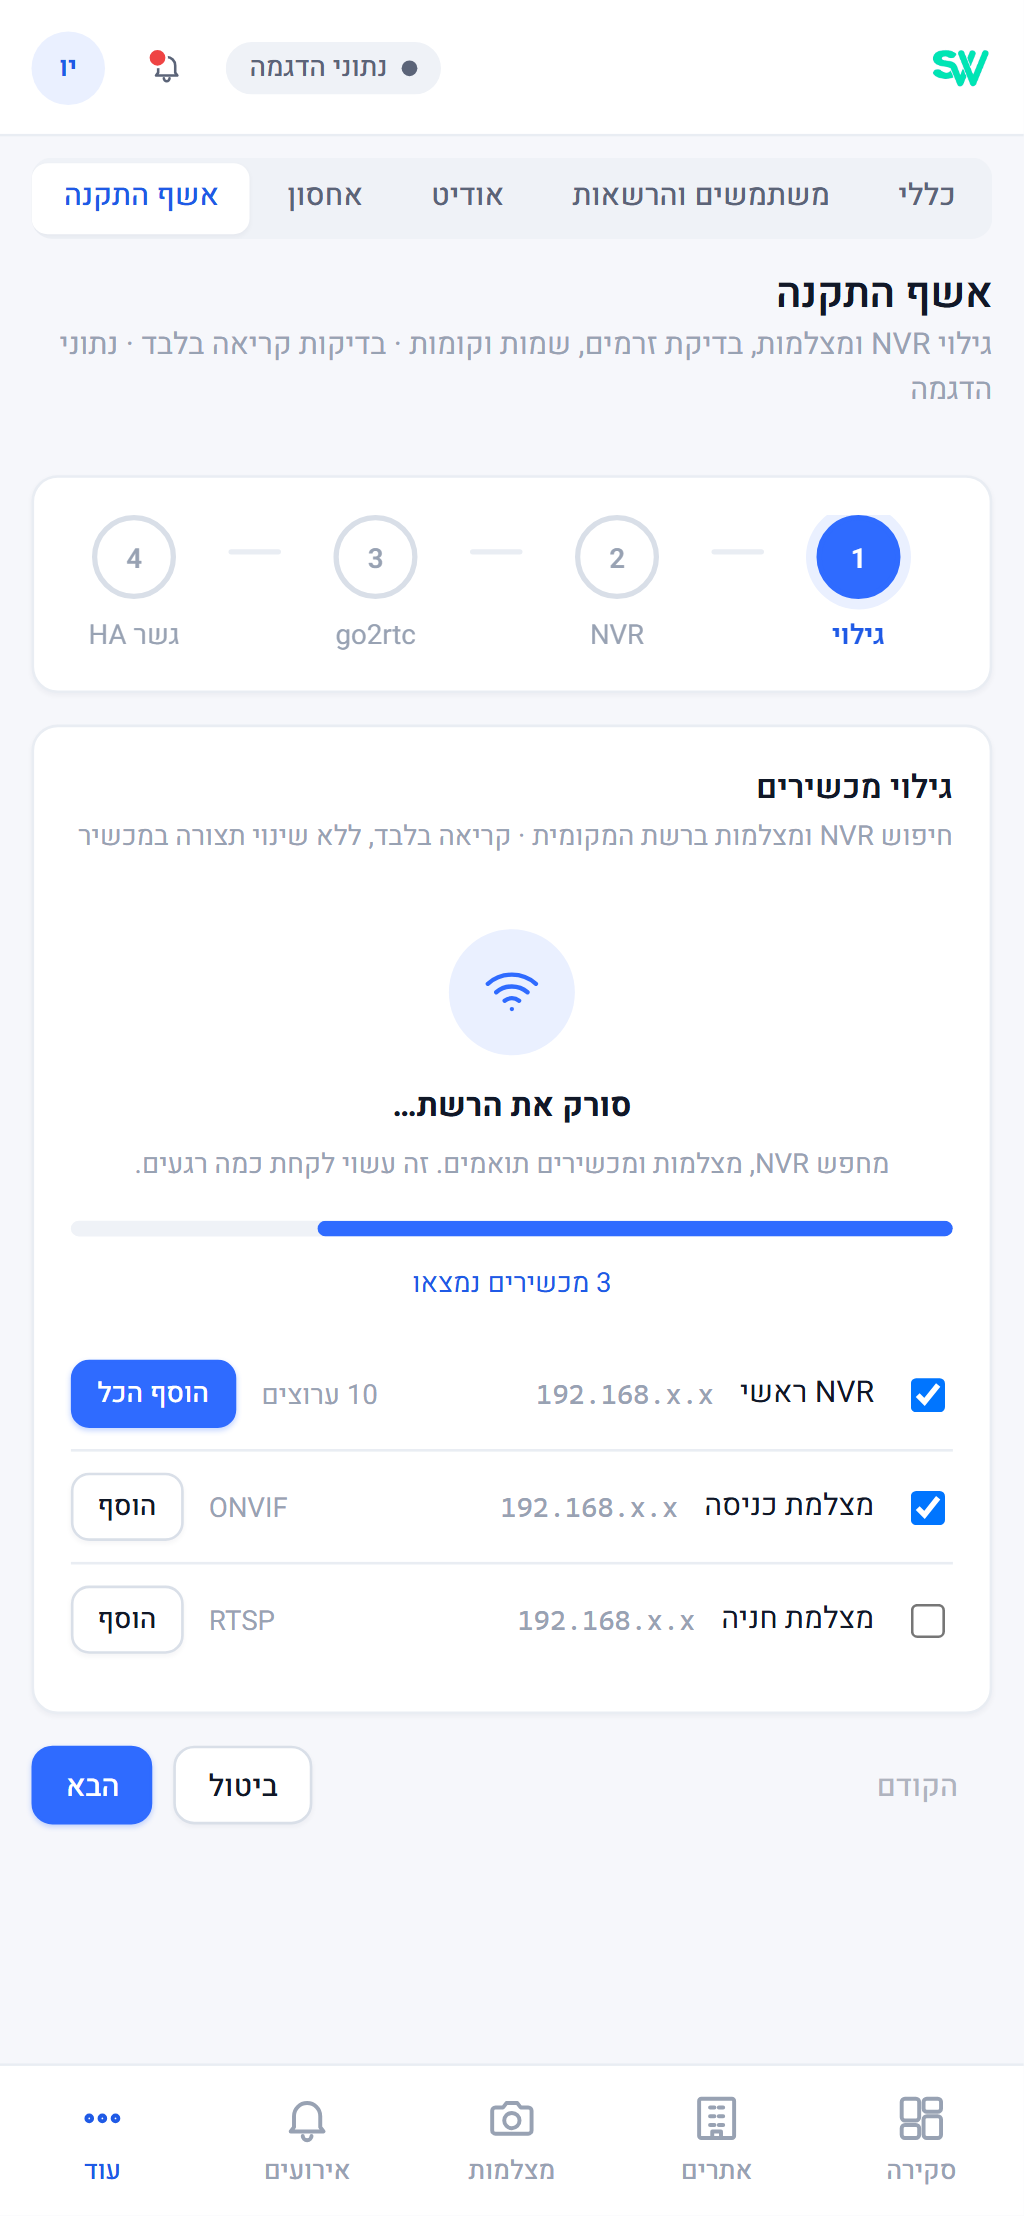
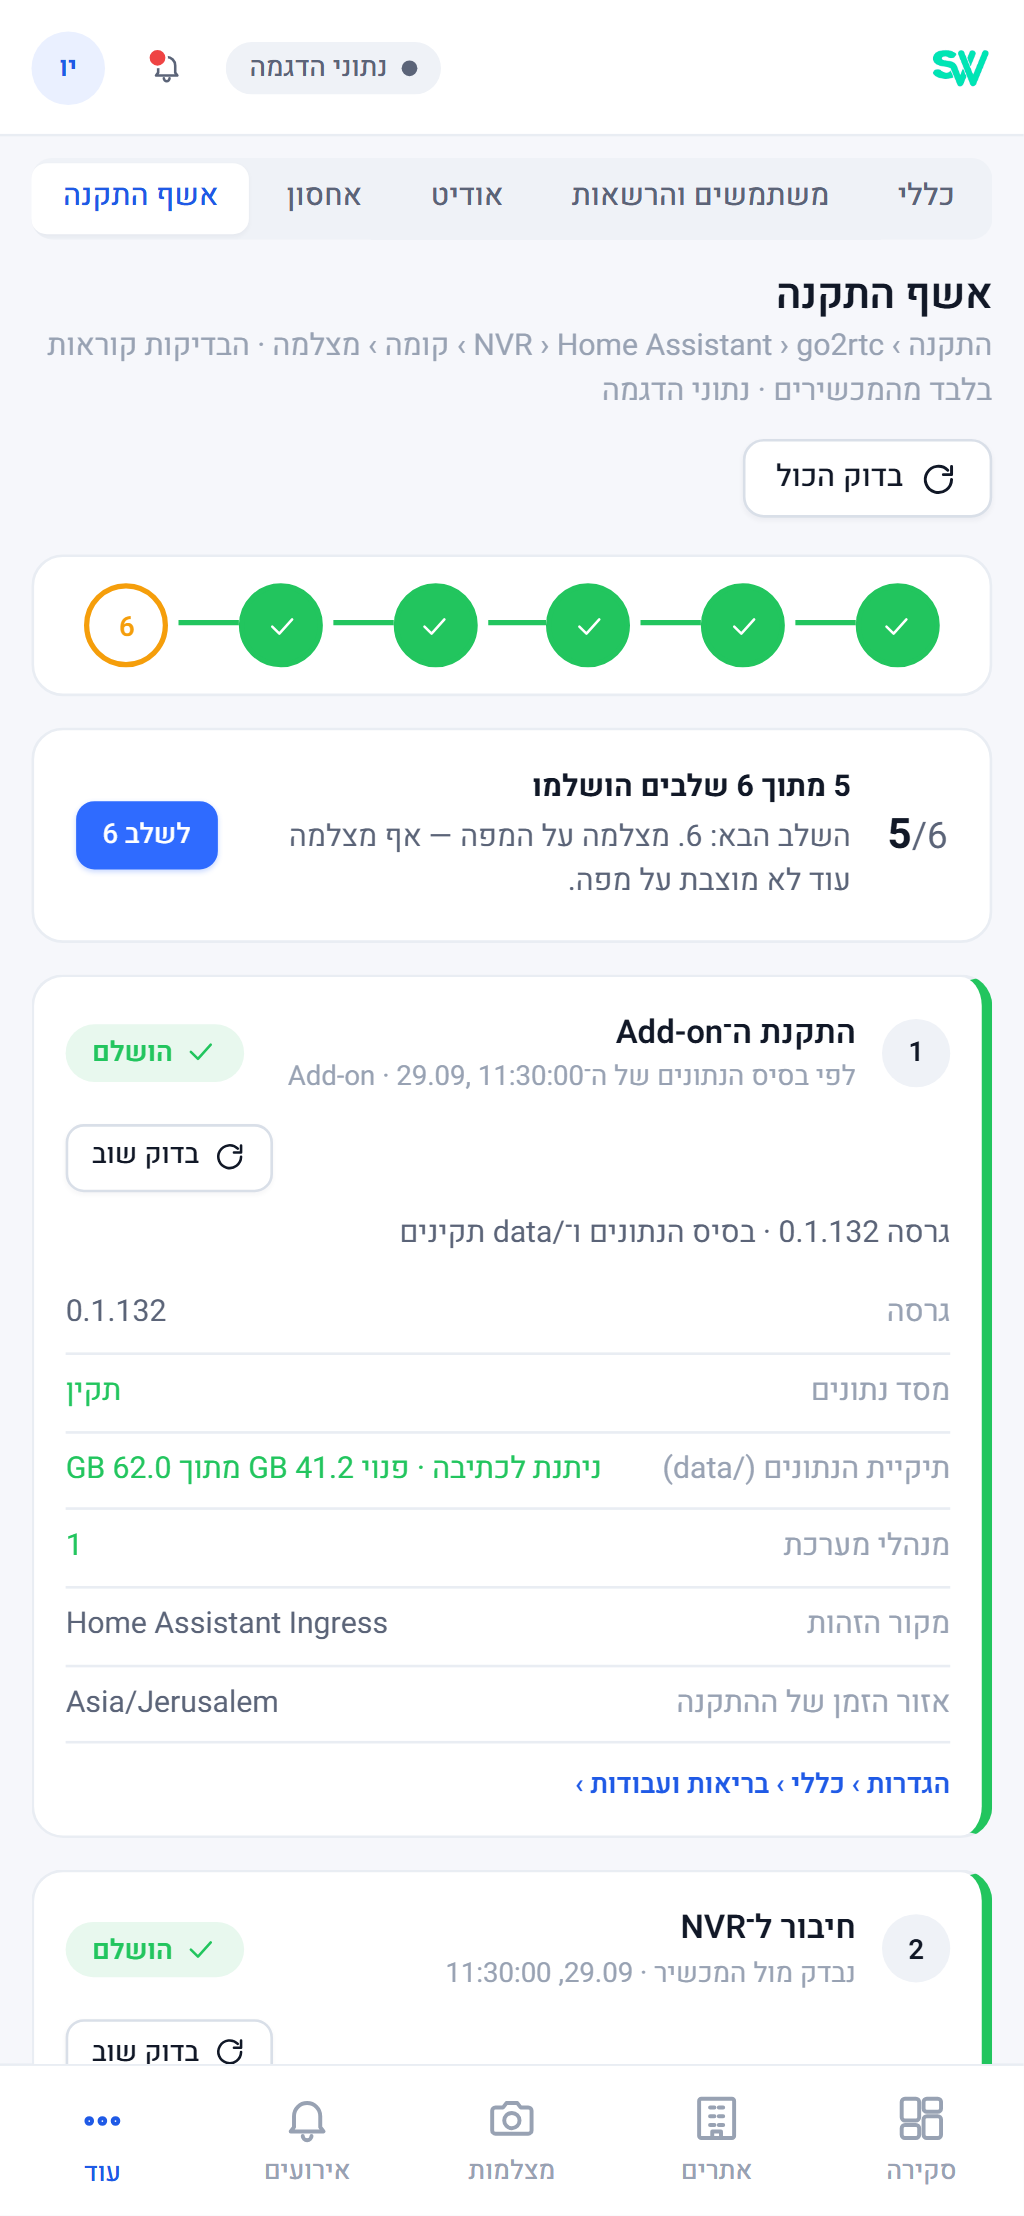
test(T071): wizard evidence spec on a fake-device fixture backend; demo-mode check; screens
frontend/tests/fixtures/setup_fake_devices.py runs the real backend with the fake NVR and go2rtc from the backend's
tests/fixtures/fake_devices.py (.test hosts, httpx transport hook, a control API that takes the NVR down).
tests/evidence-setup-wizard.spec.ts, desktop + mobile: NVR down -> the NVR step fails with the explanation, next
action and link; up -> "בדוק שוב" passes with model, channels and profiles; the per-step limit message; the shell
hint shown and dismissed for the session; no device write by any check. Demo part: the camera step and the
"מוכן לעבודה" summary. The fake NVR answers the recording search (a read by POST) instead of logging it as a
write. Screenshots in docs/evidence/T071; screens.spec captures the wizard and the connections page.

diff --git a/frontend/tests/evidence-setup-wizard.spec.ts b/frontend/tests/evidence-setup-wizard.spec.ts
@@ -1,0 +1,154 @@
+import { test, expect, request as pwRequest, type APIRequestContext, type Page } from '@playwright/test';
+import path from 'node:path';
+import { fileURLToPath } from 'node:url';
+
+// Evidence for the setup wizard (T071, AT141): הגדרות › אשף התקנה (#/system/wizard) driven by GET /setup/state and
+// POST /setup/check/{step}.
+//
+// Live part (SW_LIVE=1 SW_SETUP_FIXTURE=1): against the throwaway fixture backend tests/fixtures/setup_fake_devices.py
+// (fake NVR and go2rtc on `.test` hosts, the add-on's real device code; how to start it is at the top of that file).
+// The NVR fake goes down → opening the wizard checks the NVR step live, it fails with the explanation, the next action
+// and the link to הגדרות › חיבורים; "בדוק שוב" right away is refused by the per-step rate limit (the message is shown);
+// the NVR comes back up → "בדוק שוב" passes with the device's evidence. Then the shell's "השלם את ההתקנה" hint: shown
+// to the system administrator elsewhere while steps remain, and dismissed for the browser session. desktop + mobile.
+//
+// Demo part (no backend behind the preview): the fixture state - the camera step waits for a placement with its
+// explanation; "בדוק שוב" on it completes the six steps and the "מוכן לעבודה" summary appears.
+const HERE = path.dirname(fileURLToPath(import.meta.url));
+const OUT = path.resolve(HERE, '..', '..', 'docs', 'evidence', 'T071');
+const WIZARD = '#/system/wizard';
+const CONTROL = process.env.SW_SETUP_CONTROL || 'http://127.0.0.1:8359';
+
+const step = (page: Page, id: string) => page.locator(`system-wizard [data-step="${id}"]`);
+
+async function openWizard(page: Page) {
+  await page.goto(`/?design=a${WIZARD}`);
+  await page.waitForSelector('sw-app');
+  await expect(page.locator('system-wizard [data-wizard]')).toBeVisible({ timeout: 30000 });
+}
+
+async function noHorizontalOverflow(page: Page) {
+  const overflow = await page.evaluate(() => document.documentElement.scrollWidth - document.documentElement.clientWidth);
+  expect(overflow, 'page must not scroll horizontally').toBeLessThanOrEqual(0);
+}
+
+test.describe('setup wizard against the fixture backend (fake NVR / go2rtc)', () => {
+  test.skip(process.env.SW_LIVE !== '1' || process.env.SW_SETUP_FIXTURE !== '1', 'set SW_LIVE=1 SW_SETUP_FIXTURE=1 against tests/fixtures/setup_fake_devices.py');
+  test.describe.configure({ mode: 'serial' });
+
+  let control: APIRequestContext;
+
+  test.beforeAll(async () => {
+    control = await pwRequest.newContext({ baseURL: CONTROL });
+  });
+
+  test.beforeEach(async () => {
+    expect((await control.post('/reset')).status()).toBe(200);
+  });
+
+  test.afterAll(async () => {
+    await control?.post('/reset');
+    await control?.dispose();
+  });
+
+  test('NVR down: the step fails with the explanation; up again: "בדוק שוב" passes', async ({ page, request }, testInfo) => {
+    expect((await control.post('/nvr', { data: { up: false } })).status()).toBe(200);
+    await openWizard(page);
+    // the six steps in the acceptance order, with the rail
+    await expect(page.locator('system-wizard [data-step]')).toHaveCount(6);
+    expect(await page.locator('system-wizard [data-step]').evaluateAll((els) => els.map((e) => e.getAttribute('data-step')))).toEqual(['install', 'nvr', 'ha', 'go2rtc', 'floor', 'camera']);
+    await expect(page.locator('system-wizard [data-rail-step]')).toHaveCount(6);
+
+    // opening the wizard checks the NVR live (it was known only from the start-up discovery): down → failed
+    const nvr = step(page, 'nvr');
+    await expect(nvr).toHaveAttribute('data-status', 'failed', { timeout: 30000 });
+    await expect(nvr).toHaveAttribute('data-source', 'live');
+    const problem = nvr.locator('[data-step-problem]');
+    await expect(problem).toHaveAttribute('data-step-problem', 'source_unavailable');
+    await expect(problem).toContainText('ה־NVR לא ענה');
+    await expect(problem.locator('[data-step-action]')).toContainText('ודאו שה־NVR דולק ומחובר לרשת');
+    await expect(problem.locator('[data-step-link]')).toHaveAttribute('href', '#/system/setup');
+    await expect(page.locator('system-wizard [data-rail-step="nvr"]')).toHaveAttribute('data-status', 'failed');
+    await expect(page.locator('system-wizard [data-wizard-progress]')).toContainText('נכשלו');
+    await noHorizontalOverflow(page);
+    await page.screenshot({ path: path.join(OUT, `wizard-nvr-down-${testInfo.project.name}.png`), fullPage: true });
+
+    // the other steps explain themselves too: HA is not configured in this fixture, the floor has no building yet
+    await expect(step(page, 'ha')).toHaveAttribute('data-status', 'failed');
+    await expect(step(page, 'ha').locator('[data-step-problem]')).toHaveAttribute('data-step-problem', 'ha_not_configured');
+    await expect(step(page, 'floor')).toHaveAttribute('data-status', 'todo');
+    await expect(step(page, 'floor').locator('[data-step-link]')).toHaveAttribute('href', '#/explore/sites');
+    await expect(step(page, 'go2rtc')).toHaveAttribute('data-status', 'done', { timeout: 30000 });
+
+    // the NVR is back (and the per-step limit of the automatic check has run out): "בדוק שוב" passes
+    expect((await control.post('/nvr', { data: { up: true } })).status()).toBe(200);
+    await page.waitForTimeout(5200);
+    await nvr.locator('[data-check="nvr"]').click();
+    await expect(nvr).toHaveAttribute('data-status', 'done', { timeout: 30000 });
+    await expect(nvr.locator('[data-step-problem]')).toHaveCount(0);
+    await expect(nvr.locator('[data-step-note]')).toHaveCount(0);
+    // an immediate second check is refused by the per-step limit, the screen says so and keeps the result
+    await nvr.locator('[data-check="nvr"]').click();
+    await expect(nvr.locator('[data-step-note]')).toContainText('אפשר לבדוק שוב בעוד');
+    await expect(nvr).toHaveAttribute('data-status', 'done');
+    await expect(nvr.locator('[data-step-facts]')).toContainText('DS-7616NI-FAKE');
+    await expect(nvr.locator('[data-step-facts]')).toContainText('4 · 4 מקוונים');
+    await expect(nvr.locator('[data-step-facts]')).toContainText('H.265 2560x1440 25fps');
+    await expect(page.locator('system-wizard [data-rail-step="nvr"]')).toHaveAttribute('data-status', 'done');
+    await expect(page.locator('system-wizard [data-wizard-ready]')).toHaveCount(0);
+    await noHorizontalOverflow(page);
+    await page.screenshot({ path: path.join(OUT, `wizard-nvr-up-${testInfo.project.name}.png`), fullPage: true });
+
+    // the API agrees, and the checks never wrote to a device (only the start-up stream sync's own PUTs are listed)
+    const state = await (await request.get('/api/v1/setup/state')).json();
+    expect(state.steps.find((s: { id: string }) => s.id === 'nvr').status).toBe('done');
+    const writes = (await (await control.get('/writes')).json()) as string[];
+    expect(writes.every((w) => w.startsWith('go2rtc PUT smplwise_'))).toBe(true);
+  });
+
+  test('the shell hint "השלם את ההתקנה" shows while steps remain and is dismissed for the session', async ({ page }, testInfo) => {
+    await page.goto('/?design=a#/live');
+    await page.waitForSelector('sw-app');
+    const hint = page.locator('sw-app [data-setup-hint]');
+    await expect(hint).toBeVisible({ timeout: 30000 });
+    await expect(hint).toContainText('השלם את ההתקנה');
+    await expect(hint).toContainText('מתוך 6 שלבים הושלמו');
+    await noHorizontalOverflow(page);
+    await page.screenshot({ path: path.join(OUT, `shell-hint-${testInfo.project.name}.png`) });
+    await hint.locator('a').click();
+    await expect(page.locator('system-wizard [data-wizard]')).toBeVisible({ timeout: 30000 });
+    await expect(hint).toHaveCount(0); // not on the wizard itself
+    await page.goto('/?design=a#/live');
+    await expect(hint).toBeVisible({ timeout: 30000 });
+    await hint.locator('[data-setup-hint-dismiss]').click();
+    await expect(hint).toHaveCount(0);
+    await page.reload();
+    await page.waitForSelector('sw-app');
+    await page.waitForTimeout(1500);
+    await expect(hint).toHaveCount(0);
+  });
+});
+
+test.describe('setup wizard in demo mode (fixture data, no backend)', () => {
+  test.skip(process.env.SW_LIVE === '1', 'demo mode runs without a backend behind the preview');
+
+  test('the camera step explains itself; "בדוק שוב" completes the six steps and shows "מוכן לעבודה"', async ({ page }, testInfo) => {
+    await openWizard(page);
+    const cam = step(page, 'camera');
+    await expect(cam).toHaveAttribute('data-status', 'todo');
+    await expect(cam.locator('[data-step-problem]')).toContainText('אף מצלמה עוד לא מוצבת על מפה');
+    await expect(cam.locator('[data-step-link]')).toHaveAttribute('href', '#/explore/floors/f0/edit');
+    await expect(page.locator('system-wizard [data-wizard-progress]')).toContainText('5 מתוך 6');
+    await noHorizontalOverflow(page);
+    await page.screenshot({ path: path.join(OUT, `wizard-demo-${testInfo.project.name}.png`), fullPage: true });
+    await cam.locator('[data-check="camera"]').click();
+    await expect(cam).toHaveAttribute('data-status', 'done');
+    const ready = page.locator('system-wizard [data-wizard-ready]');
+    await expect(ready).toBeVisible();
+    await expect(ready).toContainText('מוכן לעבודה');
+    await expect(page.locator('system-wizard [data-rail-step][data-status="done"]')).toHaveCount(6);
+    await expect(page.locator('sw-app [data-setup-hint]')).toHaveCount(0); // the hint is for a real installation only
+    await noHorizontalOverflow(page);
+    await page.screenshot({ path: path.join(OUT, `wizard-demo-ready-${testInfo.project.name}.png`), fullPage: true });
+  });
+});

diff --git a/frontend/tests/screens.spec.ts b/frontend/tests/screens.spec.ts
@@ -32,7 +32,8 @@ const SCREENS: { sc: string; route: string; full?: boolean }[] = [
   { sc: 'sc22-rule-editor', route: '/investigate/rules/r-1', full: true },
   { sc: 'sc24-access', route: '/system/access' },
   { sc: 'sc25-audit', route: '/system/audit' },
-  { sc: 'sc26-setup', route: '/system/setup' },
+  { sc: 'sc26-setup', route: '/system/wizard' },
+  { sc: 'sc26-connections', route: '/system/setup' },
   { sc: 'sc27-devices', route: '/system/devices' },
   { sc: 'sc28-diagnostics', route: '/system/diagnostics', full: true },
   { sc: 'sc20-storage', route: '/system/storage', full: true },

diff --git a/frontend/tests/fixtures/setup_fake_devices.py b/frontend/tests/fixtures/setup_fake_devices.py
@@ -1,0 +1,116 @@
+"""Fixture backend for tests/evidence-setup-wizard.spec.ts (T071): the REAL SMPLWISE backend whose NVR and go2rtc are
+the fakes in smplwise_vms/backend/tests/fixtures/fake_devices.py - the add-on's own ISAPI / go2rtc code runs unchanged,
+only the HTTP answers are fake. NVR_HOST and GO2RTC_URL point at reserved `.test` names that never resolve, and httpx's
+transport answers them in this process; Home Assistant is left unconfigured (no HA_URL / HA_TOKEN), so no real HA, NVR
+or go2rtc can be reached from here. It refuses to start inside the add-on.
+
+At start-up the backend's own discovery reads the fake NVR (4 channels) and its stream sync creates the `smplwise_`
+streams in the fake go2rtc, as the real add-on does; the setup wizard itself never writes to a device.
+
+Run it (a fresh data dir each time):
+
+    SW_PORT=8349 SW_DATA_DIR=<empty dir> SW_DEV_USER=joni SW_BOOTSTRAP_ADMIN=joni \
+        <repo>/.venv/Scripts/python.exe frontend/tests/fixtures/setup_fake_devices.py
+
+then, from frontend/ (`npm run build` first):
+
+    SW_LIVE=1 SW_SETUP_FIXTURE=1 SW_API_PORT=8349 SW_SETUP_CONTROL=http://127.0.0.1:8359 \
+        SW_BASE_URL=http://127.0.0.1:4189/ npx playwright test tests/evidence-setup-wizard.spec.ts --project=desktop --project=mobile --workers=1
+
+Control API (SW_SETUP_CONTROL_PORT, default SW_PORT + 10, 127.0.0.1 only), JSON:
+    POST /reset                    fake devices back to their defaults (all up); the wizard forgets its cached checks and
+                                   its rate limiter
+    POST /nvr {up?, auth?, drift_s?, offset?, channels?}
+                                   change the fake NVR (e.g. {"up": false} - every ISAPI call then fails to connect)
+    POST /go2rtc {up?, auth?}      change the fake go2rtc
+    GET  /writes                   every non-GET request a fake device received (the start-up stream sync's PUTs only)
+"""
+from __future__ import annotations
+
+import json
+import os
+import sys
+import threading
+from http.server import BaseHTTPRequestHandler, ThreadingHTTPServer
+from pathlib import Path
+from typing import Any
+
+if os.environ.get("SUPERVISOR_TOKEN"):
+    sys.exit("setup_fake_devices: refusing to run inside the Home Assistant add-on")
+
+ROOT = Path(__file__).resolve().parents[3]
+sys.path.insert(0, str(ROOT / "smplwise_vms" / "backend"))
+sys.path.insert(0, str(ROOT / "smplwise_vms" / "backend" / "tests" / "fixtures"))
+
+from fake_devices import GO2RTC_HOST, NVR_HOST, FakeDevices  # noqa: E402
+
+os.environ["NVR_HOST"] = NVR_HOST
+os.environ["NVR_HTTP_PORT"] = "80"
+os.environ["NVR_USER"] = "wizard"
+os.environ["NVR_PASSWORD"] = "fake-password"
+os.environ["GO2RTC_URL"] = f"http://{GO2RTC_HOST}:1984"
+for key in ("HA_URL", "HA_TOKEN", "GO2RTC_API_USER", "GO2RTC_API_PASSWORD"):
+    os.environ.pop(key, None)
+PORT = int(os.environ.get("SW_PORT", "8099"))
+
+FAKE = FakeDevices()
+FAKE.install()
+
+
+class Control(BaseHTTPRequestHandler):
+    def _json(self, status: int, body: Any) -> None:
+        data = json.dumps(body, ensure_ascii=False).encode("utf-8")
+        self.send_response(status)
+        self.send_header("Content-Type", "application/json; charset=utf-8")
+        self.send_header("Content-Length", str(len(data)))
+        self.end_headers()
+        self.wfile.write(data)
+
+    def _body(self) -> dict[str, Any]:
+        n = int(self.headers.get("Content-Length") or 0)
+        return json.loads(self.rfile.read(n) or b"{}") if n else {}
+
+    def log_message(self, fmt: str, *args: Any) -> None:  # noqa: D401 - quiet control server
+        return
+
+    def do_GET(self) -> None:  # noqa: N802
+        if self.path == "/writes":
+            with FAKE.lock:
+                return self._json(200, list(FAKE.writes))
+        self._json(404, {"error": "not_found"})
+
+    def do_POST(self) -> None:  # noqa: N802
+        from smplwise.services import setup_wizard  # imported here: after the transport hook is in place
+
+        body = self._body()
+        if self.path == "/reset":
+            with FAKE.lock:
+                streams = dict(FAKE.go2rtc["streams"])
+            FAKE.reset()
+            with FAKE.lock:
+                FAKE.go2rtc["streams"] = streams  # go2rtc does not lose its streams because a test starts
+            setup_wizard.reset()
+            return self._json(200, {"ok": True})
+        if self.path in ("/nvr", "/go2rtc"):
+            target = FAKE.nvr if self.path == "/nvr" else FAKE.go2rtc
+            allowed = {"up", "auth", "drift_s", "offset", "channels"} if self.path == "/nvr" else {"up", "auth"}
+            unknown = set(body) - allowed
+            if unknown:
+                return self._json(400, {"error": f"unknown keys {sorted(unknown)}"})
+            with FAKE.lock:
+                target.update(body)
+                return self._json(200, {k: target[k] for k in allowed})
+        self._json(404, {"error": "not_found"})
+
+
+def main() -> None:
+    port = int(os.environ.get("SW_SETUP_CONTROL_PORT") or PORT + 10)
+    server = ThreadingHTTPServer(("127.0.0.1", port), Control)
+    threading.Thread(target=server.serve_forever, name="setup-fixture-control", daemon=True).start()
+    from smplwise.__main__ import main as serve
+
+    serve()
+
+
+if __name__ == "__main__":
+    main()

diff --git a/smplwise_vms/backend/tests/fixtures/fake_devices.py b/smplwise_vms/backend/tests/fixtures/fake_devices.py
@@ -66,6 +66,8 @@ class FakeDevices:
         n = self.nvr
         if not n["up"]:
             raise httpx.ConnectError("fake NVR is down", request=request)
+        if request.method == "POST" and request.url.path == "/ISAPI/ContentMgmt/search":  # a read by POST (recording search)
+            return self._ok(request, f"<CMSearchResult {NS}><responseStatus>true</responseStatus><responseStatusStrg>NO MATCHES</responseStatusStrg><numOfMatches>0</numOfMatches></CMSearchResult>")
         if request.method != "GET":
             self.writes.append(f"nvr {request.method} {request.url.path}")
             return httpx.Response(403, text=_xml(f"<ResponseStatus {NS}><statusString>Forbidden</statusString><subStatusCode>notSupport</subStatusCode></ResponseStatus>"), request=request)
